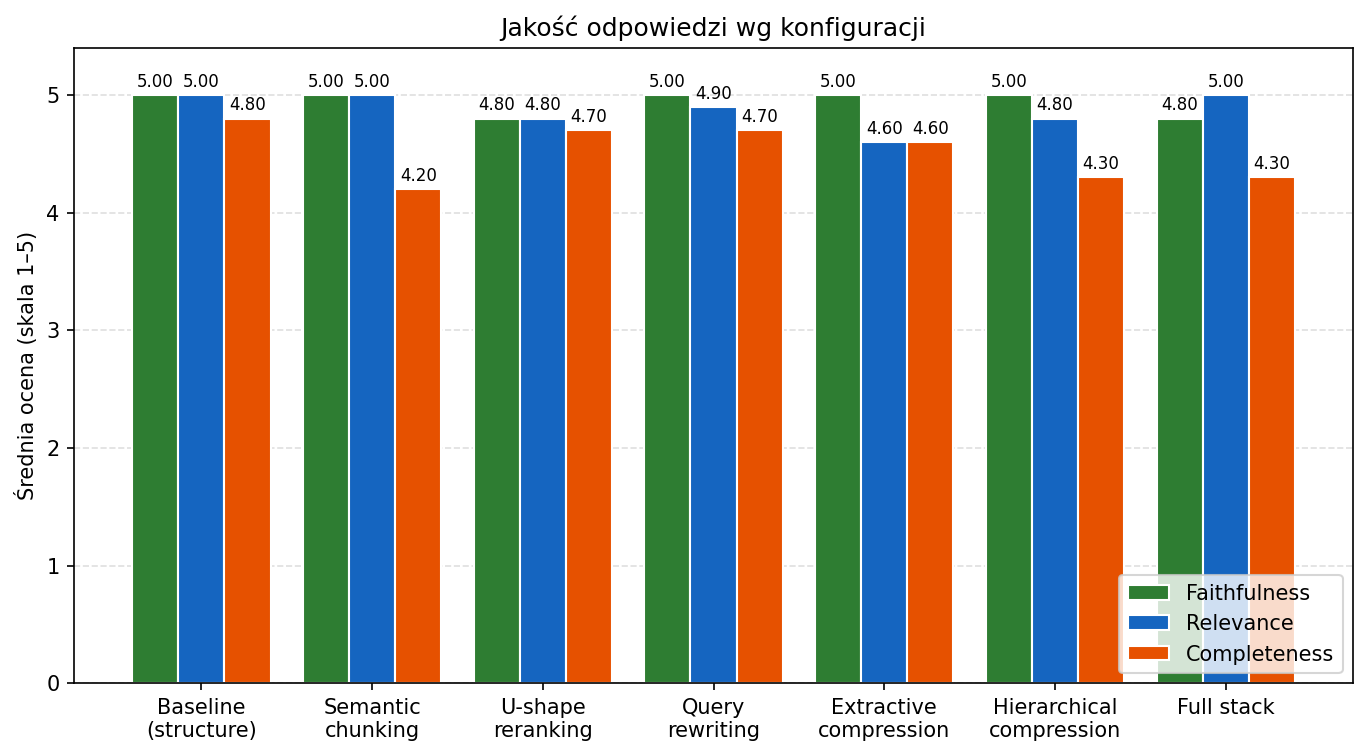
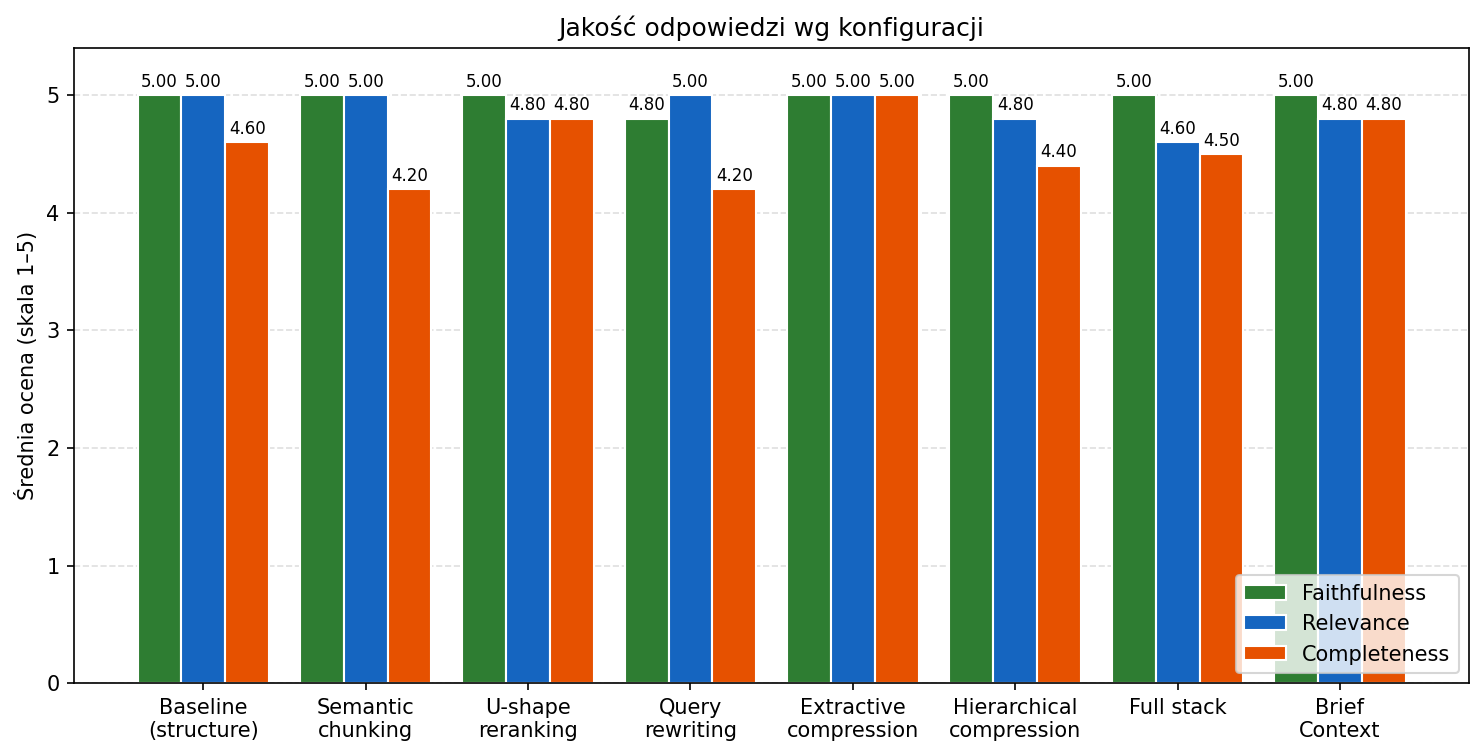
new plots and new version of documentation

diff --git a/evaluation/analysis/visualize.py b/evaluation/analysis/visualize.py
@@ -9,8 +9,10 @@ import numpy as np
 logging.basicConfig(level=logging.INFO, format="%(levelname)s | %(message)s")
 logger = logging.getLogger(__name__)
 
-ROOT = Path(__file__).resolve().parent.parent 
+ROOT = Path(__file__).resolve().parent.parent
 INPUT_PATH = ROOT / "outputs" / "experiment_results.csv"
+LITM_PATH = ROOT / "outputs" / "lost_in_middle_results.csv"
+RAGAS_PATH = ROOT / "outputs" / "ragas_results.csv"
 PLOTS_DIR = ROOT / "analysis" / "plots"
 PLOTS_DIR.mkdir(parents=True, exist_ok=True)
 
@@ -22,6 +24,7 @@ CONFIG_ORDER = [
     "extractive",
     "hierarchical",
     "full_stack",
+    "brief_context",
 ]
 
 CONFIG_LABELS = {
@@ -32,14 +35,29 @@ CONFIG_LABELS = {
     "extractive": "Extractive\ncompression",
     "hierarchical": "Hierarchical\ncompression",
     "full_stack": "Full stack",
+    "brief_context": "Brief\nContext",
 }
 
 COLORS = {
-    "faithfulness": "#2E7D32",   
-    "relevance":    "#1565C0",  
-    "completeness": "#E65100",  
-    "ctx_tokens":   "#6A1B9A", 
-    "latency":      "#C62828",   
+    "faithfulness": "#2E7D32",
+    "relevance":    "#1565C0",
+    "completeness": "#E65100",
+    "ctx_tokens":   "#6A1B9A",
+    "latency":      "#C62828",
+    "precision":    "#00695C",
+    "ragas_relevance": "#283593",
+}
+
+MITIGATION_ORDER = ["no_mitigation", "u_shape", "brief_context"]
+MITIGATION_LABELS = {
+    "no_mitigation": "Brak mitygacji",
+    "u_shape": "U-shape",
+    "brief_context": "BriefContext",
+}
+MITIGATION_COLORS = {
+    "no_mitigation": "#C62828",
+    "u_shape": "#1565C0",
+    "brief_context": "#2E7D32",
 }
 
 
@@ -53,7 +71,7 @@ def load_data(path: Path) -> list[dict]:
         if int(r.get("faithfulness", 0)) > 0
         and not r.get("answer", "").startswith("ERROR")
     ]
-    logger.info(f"Loaded {len(rows)} rows ({len(valid)} valid)")
+    logger.info(f"Loaded {len(rows)} rows ({len(valid)} valid) from {path.name}")
     return valid
 
 
@@ -78,6 +96,16 @@ def mean(xs: list) -> float:
     return sum(xs) / len(xs) if xs else 0.0
 
 
+def safe_float(v, default=None):
+    try:
+        x = float(v)
+        if x != x:
+            return default
+        return x
+    except (ValueError, TypeError):
+        return default
+
+
 def save(fig, name: str) -> None:
     path = PLOTS_DIR / name
     fig.savefig(path, dpi=150, bbox_inches="tight")
@@ -85,7 +113,6 @@ def save(fig, name: str) -> None:
     logger.info(f"Saved {path.relative_to(ROOT.parent)}")
 
 def plot_metrics_by_config(agg: dict) -> None:
-    """Bar chart: F / R / C side-by-side per config."""
     cfgs = configs_present(agg)
     f_means = [mean(agg[c]["f"]) for c in cfgs]
     r_means = [mean(agg[c]["r"]) for c in cfgs]
@@ -94,7 +121,7 @@ def plot_metrics_by_config(agg: dict) -> None:
     x = np.arange(len(cfgs))
     width = 0.27
 
-    fig, ax = plt.subplots(figsize=(11, 5.5))
+    fig, ax = plt.subplots(figsize=(12, 5.5))
     b1 = ax.bar(x - width, f_means, width, label="Faithfulness",
                 color=COLORS["faithfulness"], edgecolor="white")
     b2 = ax.bar(x,         r_means, width, label="Relevance",
@@ -150,7 +177,7 @@ def plot_latency(agg: dict) -> None:
     cfgs = configs_present(agg)
     lat_means = [mean(agg[c]["lat"]) for c in cfgs]
 
-    fig, ax = plt.subplots(figsize=(10, 5))
+    fig, ax = plt.subplots(figsize=(11, 5))
     bars = ax.bar(
         [CONFIG_LABELS[c] for c in cfgs], lat_means,
         color=COLORS["latency"], edgecolor="white"
@@ -174,7 +201,7 @@ def plot_token_usage(agg: dict) -> None:
     ans_means = [mean(agg[c]["ans"]) for c in cfgs]
 
     x = np.arange(len(cfgs))
-    fig, ax = plt.subplots(figsize=(10, 5.5))
+    fig, ax = plt.subplots(figsize=(11, 5.5))
     b1 = ax.bar(x, ctx_means, color=COLORS["ctx_tokens"],
                 edgecolor="white", label="Kontekst (input)")
     b2 = ax.bar(x, ans_means, bottom=ctx_means, color="#FFB300",
@@ -199,7 +226,7 @@ def plot_token_usage(agg: dict) -> None:
 def plot_completeness_per_question(rows: list[dict], agg: dict) -> None:
     cfgs = configs_present(agg)
     qids = sorted({r["question_id"] for r in rows},
-                  key=lambda q: (q[0], int(q[1:]))) 
+                  key=lambda q: (q[0], int(q[1:])))
 
     matrix = np.full((len(cfgs), len(qids)), np.nan)
     for r in rows:
@@ -244,7 +271,7 @@ def plot_metrics_by_category(rows: list[dict], agg: dict) -> None:
     width = 0.27
     cat_colors = {"short": "#43A047", "long": "#1E88E5", "negative": "#FB8C00"}
 
-    fig, ax = plt.subplots(figsize=(11, 5.5))
+    fig, ax = plt.subplots(figsize=(12, 5.5))
     for i, cat in enumerate(categories):
         means = [mean(by_cat[cfg].get(cat, [])) for cfg in cfgs]
         offset = (i - 1) * width
@@ -301,10 +328,184 @@ def plot_summary_table(agg: dict) -> None:
     save(fig, "07_summary_table.png")
 
 
+def plot_litm_curves() -> None:
+    if not LITM_PATH.exists():
+        logger.warning(f"Brak {LITM_PATH} — pomijam wykres LITM curves")
+        return
+
+    with open(LITM_PATH, encoding="utf-8") as f:
+        rows = list(csv.DictReader(f))
+
+    cells = defaultdict(list)
+    for r in rows:
+        try:
+            c = int(r["completeness"])
+        except ValueError:
+            continue
+        if c == 0:
+            continue
+        mit = r["mitigation"]
+        pos = int(r["key_position"])
+        cells[(mit, pos)].append(c)
+
+    if not cells:
+        logger.warning("Brak danych LITM")
+        return
+
+    positions = sorted({k[1] for k in cells.keys()})
+    pos_labels = [p + 1 for p in positions]  # 0-indexed → 1-indexed dla raportu
+
+    fig, ax = plt.subplots(figsize=(10, 5.5))
+
+    for mit in MITIGATION_ORDER:
+        if not any((mit, p) in cells for p in positions):
+            continue
+        means = []
+        for p in positions:
+            vals = cells.get((mit, p), [])
+            means.append(mean(vals) if vals else np.nan)
+        ax.plot(pos_labels, means, marker="o", markersize=10, linewidth=2.5,
+                label=MITIGATION_LABELS[mit], color=MITIGATION_COLORS[mit])
+
+        for x, y in zip(pos_labels, means):
+            if not np.isnan(y):
+                ax.annotate(f"{y:.2f}", xy=(x, y),
+                            xytext=(0, 8), textcoords="offset points",
+                            ha="center", fontsize=8, color=MITIGATION_COLORS[mit])
+
+    ax.set_xlabel("Pozycja kluczowego fragmentu w kontekście (1 = początek, 10 = koniec)")
+    ax.set_ylabel("Średnia completeness (1–5)")
+    ax.set_title("Lost-in-the-middle: completeness vs pozycja klucza")
+    ax.set_ylim(0.5, 5.4)
+    ax.set_xticks(pos_labels)
+    ax.legend(loc="lower right", title="Metoda mitygacji")
+    ax.grid(linestyle="--", alpha=0.4)
+    ax.set_axisbelow(True)
+
+    save(fig, "08_litm_curves.png")
+
+
+def plot_litm_per_question() -> None:
+    """Heatmap LITM: pytanie × pozycja, jeden subplot per metoda mitygacji."""
+    if not LITM_PATH.exists():
+        logger.warning(f"Brak {LITM_PATH} — pomijam wykres LITM per question")
+        return
+
+    with open(LITM_PATH, encoding="utf-8") as f:
+        rows = list(csv.DictReader(f))
+
+    valid_rows = [r for r in rows if int(r.get("completeness", 0)) > 0]
+    if not valid_rows:
+        logger.warning("Brak danych LITM")
+        return
+
+    questions = sorted({r["question_id"] for r in valid_rows},
+                       key=lambda q: (q[0], int(q[1:])))
+    positions = sorted({int(r["key_position"]) for r in valid_rows})
+    pos_labels = [p + 1 for p in positions]
+    mitigations = [m for m in MITIGATION_ORDER if any(r["mitigation"] == m for r in valid_rows)]
+
+    fig, axes = plt.subplots(1, len(mitigations),
+                              figsize=(4 * len(mitigations), 0.6 * len(questions) + 2),
+                              sharey=True)
+    if len(mitigations) == 1:
+        axes = [axes]
+
+    for ax, mit in zip(axes, mitigations):
+        matrix = np.full((len(questions), len(positions)), np.nan)
+        for r in valid_rows:
+            if r["mitigation"] != mit:
+                continue
+            qi = questions.index(r["question_id"])
+            pi = positions.index(int(r["key_position"]))
+            matrix[qi, pi] = int(r["completeness"])
+
+        im = ax.imshow(matrix, cmap="RdYlGn", vmin=1, vmax=5, aspect="auto")
+        ax.set_title(MITIGATION_LABELS[mit], fontsize=11)
+        ax.set_xticks(np.arange(len(positions)))
+        ax.set_xticklabels(pos_labels)
+        ax.set_xlabel("Pozycja klucza")
+        if ax is axes[0]:
+            ax.set_yticks(np.arange(len(questions)))
+            ax.set_yticklabels(questions)
+            ax.set_ylabel("Pytanie")
+
+        for i in range(len(questions)):
+            for j in range(len(positions)):
+                v = matrix[i, j]
+                if not np.isnan(v):
+                    ax.text(j, i, f"{int(v)}", ha="center", va="center",
+                            color="black", fontsize=10, fontweight="bold")
+
+    fig.suptitle("Lost-in-the-middle: completeness per pytanie × pozycja × metoda", y=1.02)
+    fig.colorbar(im, ax=axes, label="Completeness (1–5)", shrink=0.7)
+    save(fig, "09_litm_per_question_heatmap.png")
+
+
+def plot_ragas_metrics() -> None:
+    """Bar chart: ragas precision / relevance per config."""
+    if not RAGAS_PATH.exists():
+        logger.warning(f"Brak {RAGAS_PATH} — pomijam wykres ragas")
+        return
+
+    with open(RAGAS_PATH, encoding="utf-8") as f:
+        rows = list(csv.DictReader(f))
+
+    sums = defaultdict(lambda: {"p": [], "r": []})
+    for row in rows:
+        cfg = row["config"]
+        p = safe_float(row.get("llm_context_precision_without_reference"))
+        if p is not None:
+            sums[cfg]["p"].append(p)
+        rel = safe_float(row.get("nv_context_relevance"))
+        if rel is not None:
+            sums[cfg]["r"].append(rel)
+
+    cfgs = [c for c in CONFIG_ORDER if c in sums]
+    if not cfgs:
+        logger.warning("Brak danych ragas")
+        return
+
+    p_means = [mean(sums[c]["p"]) for c in cfgs]
+    r_means = [mean(sums[c]["r"]) for c in cfgs]
+
+    x = np.arange(len(cfgs))
+    width = 0.4
+
+    fig, ax = plt.subplots(figsize=(12, 5.5))
+    b1 = ax.bar(x - width/2, p_means, width, label="Context Precision",
+                color=COLORS["precision"], edgecolor="white")
+    b2 = ax.bar(x + width/2, r_means, width, label="Context Relevance",
+                color=COLORS["ragas_relevance"], edgecolor="white")
+
+    ax.set_ylabel("Średnia wartość metryki (0-1)")
+    ax.set_title("Ragas: jakość retrievala wg konfiguracji")
+    ax.set_xticks(x)
+    ax.set_xticklabels([CONFIG_LABELS[c] for c in cfgs])
+    ax.set_ylim(0, 1.15)
+    ax.legend(loc="upper right")
+    ax.grid(axis="y", linestyle="--", alpha=0.4)
+    ax.set_axisbelow(True)
+
+    for bars in (b1, b2):
+        for bar in bars:
+            h = bar.get_height()
+            ax.annotate(f"{h:.2f}", xy=(bar.get_x() + bar.get_width()/2, h),
+                        xytext=(0, 2), textcoords="offset points",
+                        ha="center", va="bottom", fontsize=8)
+
+    # fig.text(0.5, -0.02,
+    #          "Uwaga: precision = 1.00 dla configów z kompresją (hierarchical, brief_context, full_stack) "
+    #          "to artefakt - Ragas dostaje już zsyntetyzowany pojedynczy chunk, a nie oryginalne fragmenty.",
+    #          ha="center", fontsize=9, style="italic",
+    #          bbox=dict(boxstyle="round,pad=0.5", facecolor="#FFF9C4", edgecolor="#F9A825", alpha=0.9))
+
+    save(fig, "10_ragas_metrics.png")
+
 def main():
     rows = load_data(INPUT_PATH)
     if not rows:
-        logger.error("Brak prawidłowych wierszy w CSV.")
+        logger.error("Brak prawidłowych wierszy w experiment_results.csv")
         return
     agg = aggregate_by_config(rows)
 
@@ -315,6 +516,11 @@ def main():
     plot_completeness_per_question(rows, agg)
     plot_metrics_by_category(rows, agg)
     plot_summary_table(agg)
+
+    # Faza 2 — LITM i Ragas
+    plot_litm_curves()
+    plot_litm_per_question()
+    plot_ragas_metrics()
 
     logger.info(f"\nWszystkie wykresy zapisane do: {PLOTS_DIR}")
 
